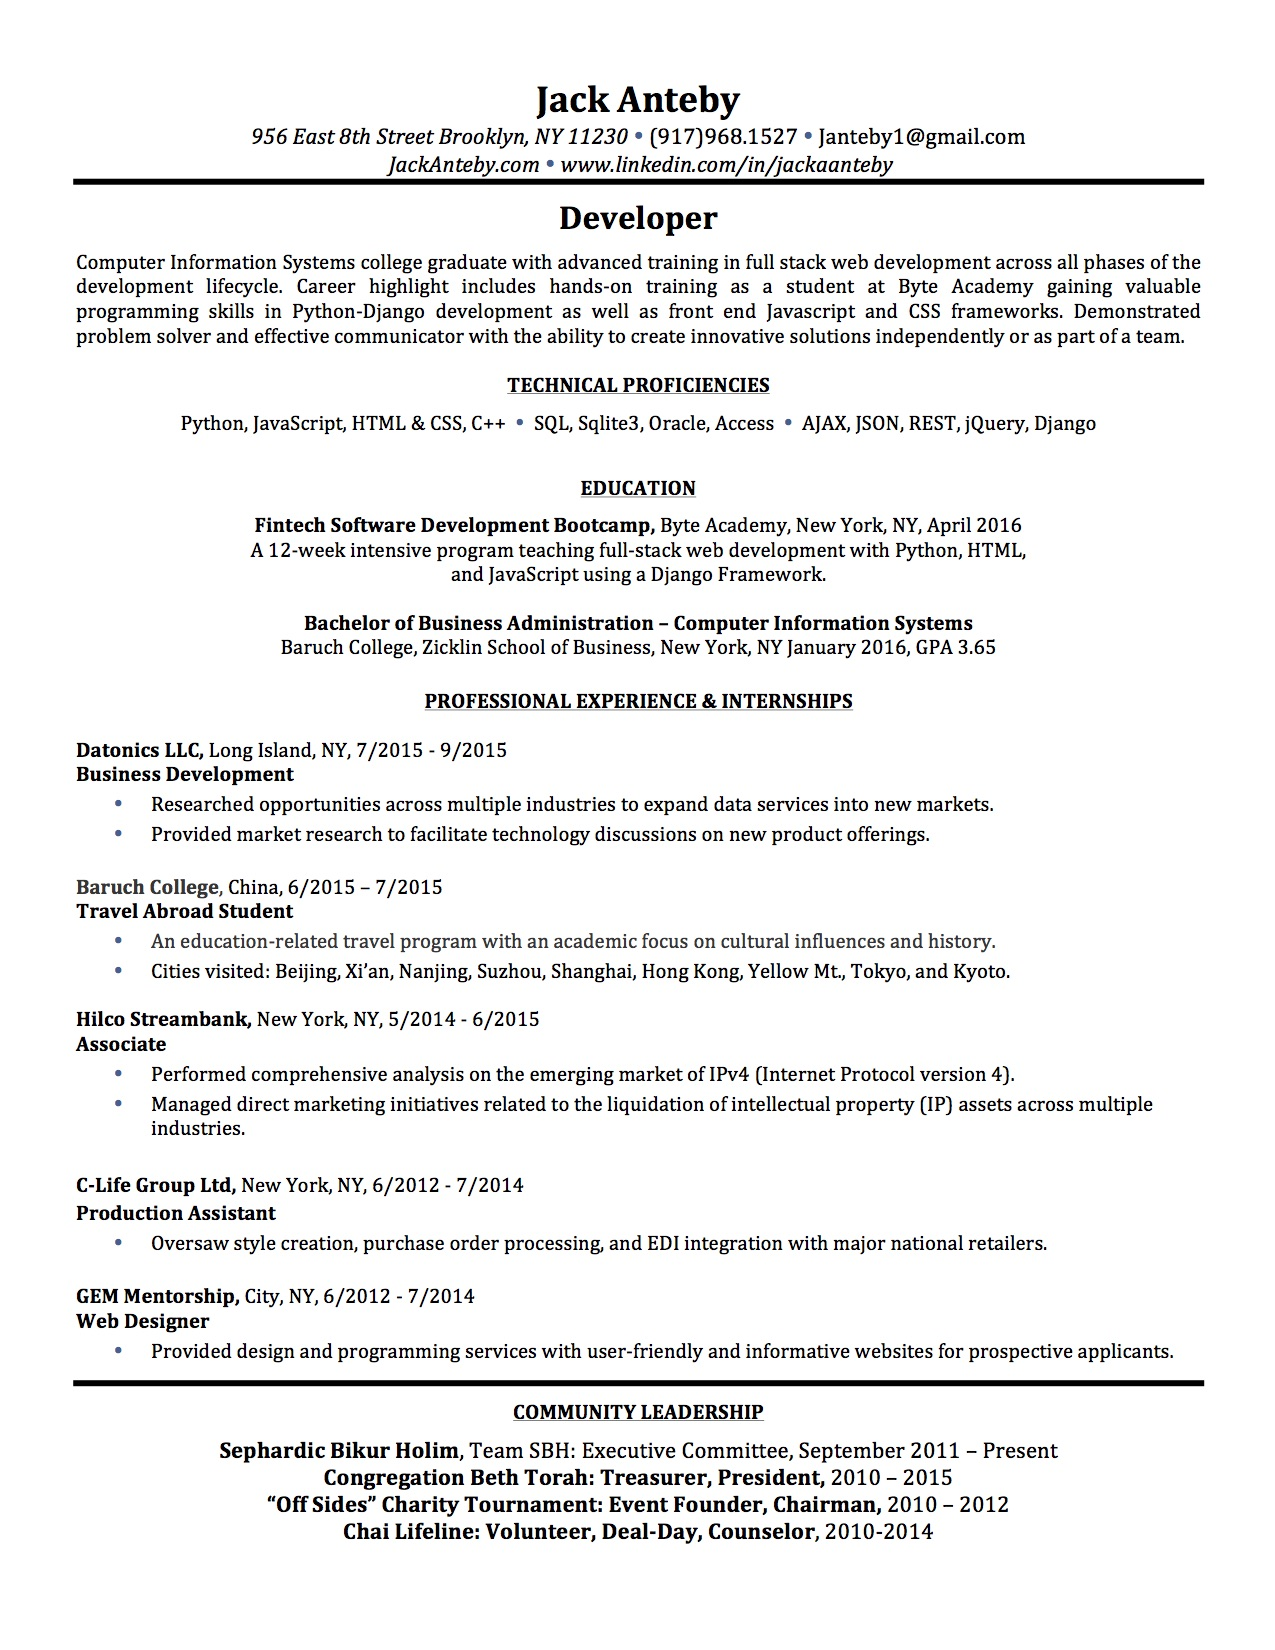
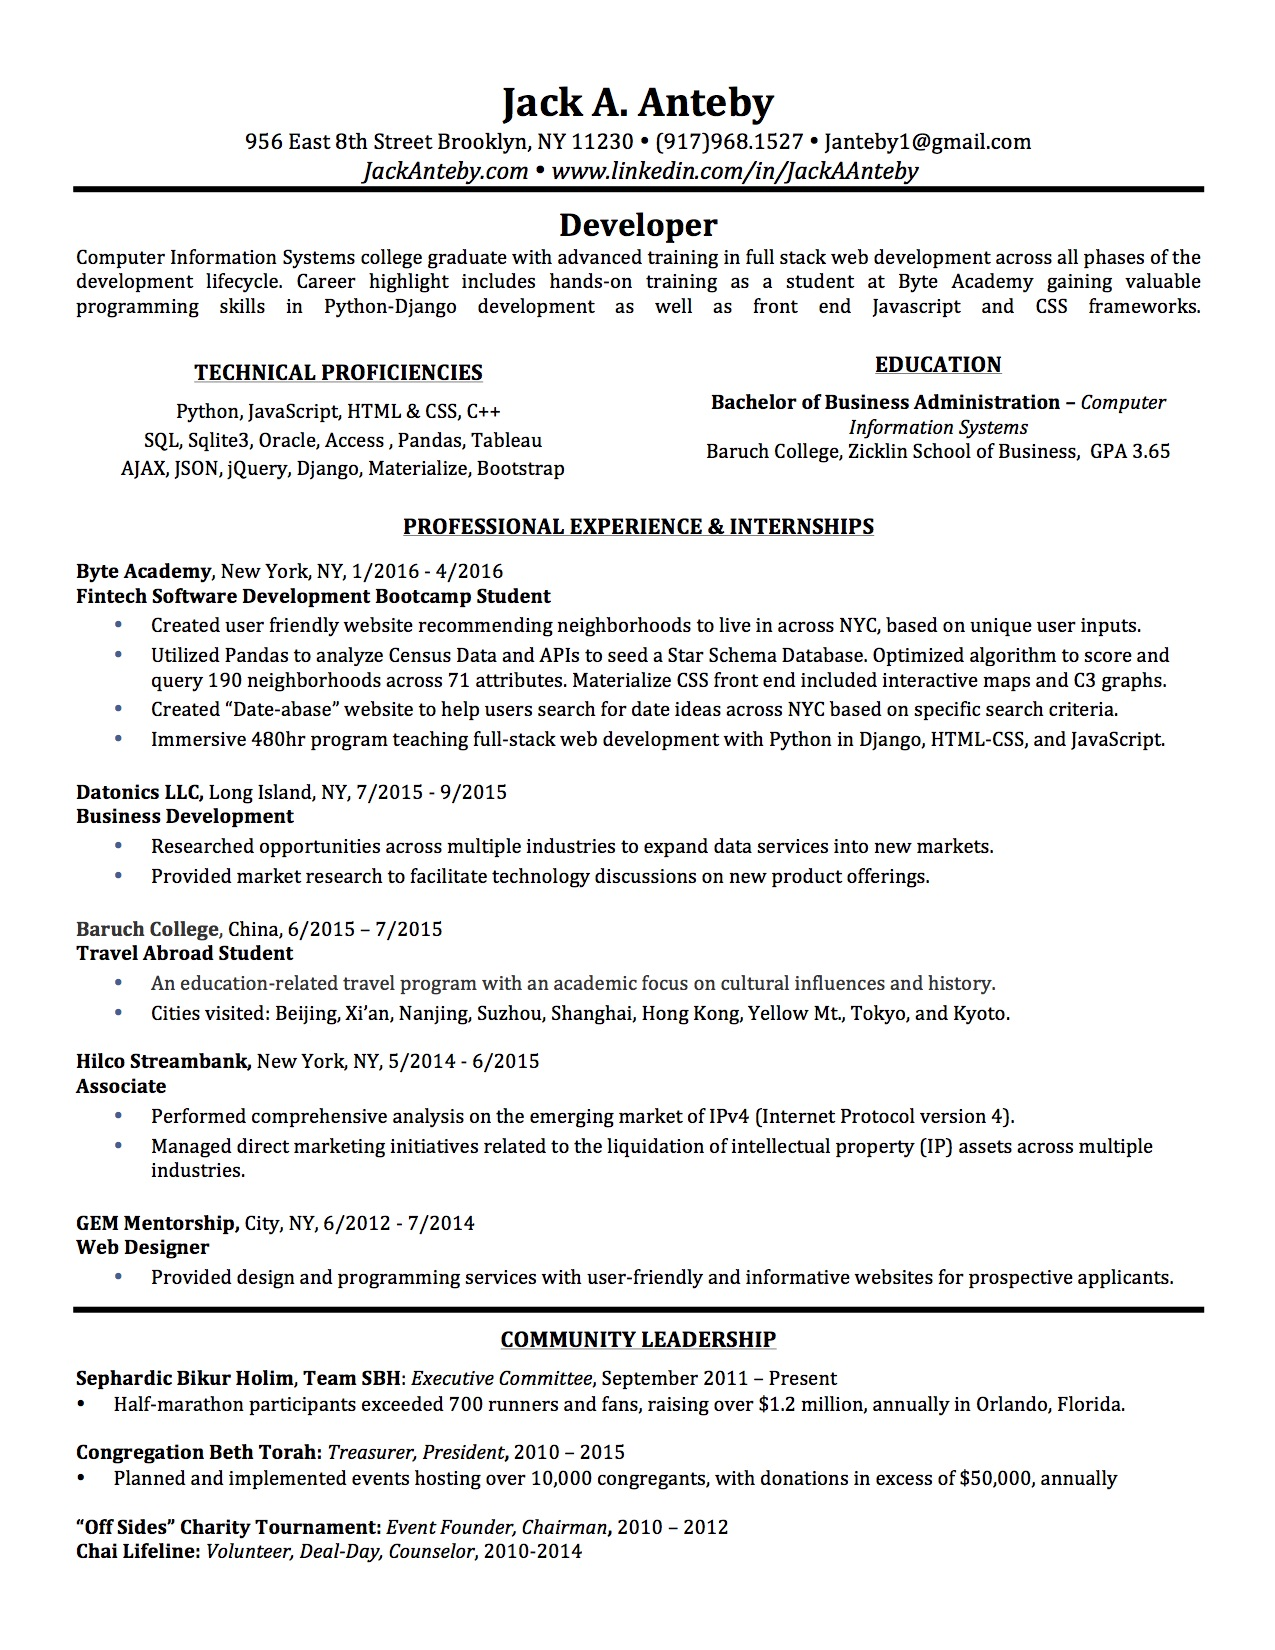
final changes for resume

Changed region(s): [[0.0612, 0.0309, 0.9482, 0.9582]]

diff --git a/home.html b/home.html
@@ -132,7 +132,7 @@
     <div id="resume_modal" class="modal">
         <div class="modal-content">
             <h4>Resume</h4>
-            <img class="col s12 m12 l12" src="img/Resume1_final.jpg" alt="">
+            <img class="col s12 m12 l12" src="img/resume.jpg" alt="">
         </div>
 
         <div class="modal-footer">
@@ -181,15 +181,16 @@
                 <div class="col s12 m8 l8">
                     <div class="card-content">
                         <br>
-                        <p>Talk here about Byte</p>
-                        <p> Researched opportunities across multiple industries to expand data services into new markets. </p>
-                        <p> Provided market research to facilitate technology discussions on new product offerings. </p>
+                        <p> •    Created user friendly website recommending neighborhoods to live in across NYC, based on unique user inputs.</p>
+                        <p> •   Utilized Pandas to analyze Census Data and APIs to seed a Star Schema Database. Optimized algorithm to score and query 190 neighborhoods across 71 attributes. Materialize CSS front end included interactive maps and C3 graphs.</p>
+                        <p> •   Created “Date-abase” website to help users search for date ideas across NYC based on specific search criteria. </p>
+                        <p> •    Immersive 480hr program teaching full-stack web development with Python in Django, HTML-CSS, and JavaScript.</p>
                     </div>
                 </div>  
 
                 <div class="card-action col s12 m12 l12">
-                        <a target="_blank" class="blue-text hover right" href="http://neighborhoodgps.nyc">Final Project</a><i class="mdi-navigation-more-vert right"></i>
-                        <a target="_blank" class="blue-text hover right" href="http://date-abase.herokuapp.com">Personal Project</a><i class="mdi-navigation-more-vert right"></i>
+                        <a target="_blank" class="blue-text hover right" href="http://neighborhoodgps.nyc">Neighborhood GPS</a><i class="mdi-navigation-more-vert right"></i>
+                        <a target="_blank" class="blue-text hover right" href="http://date-abase.herokuapp.com">Date-abase</a><i class="mdi-navigation-more-vert right"></i>
                     </div>
                 </div>  
             </div>
